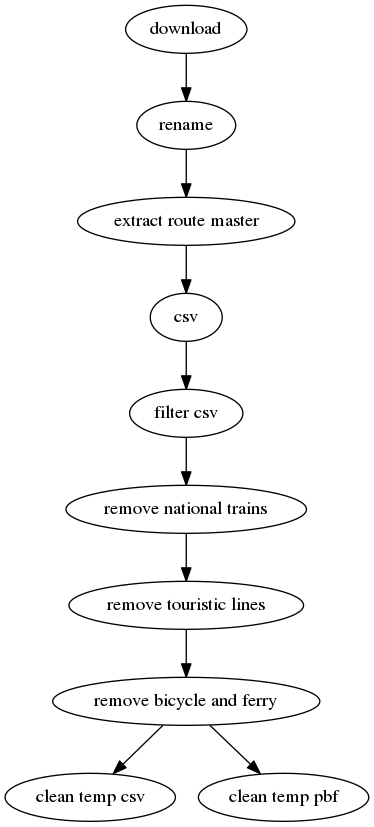
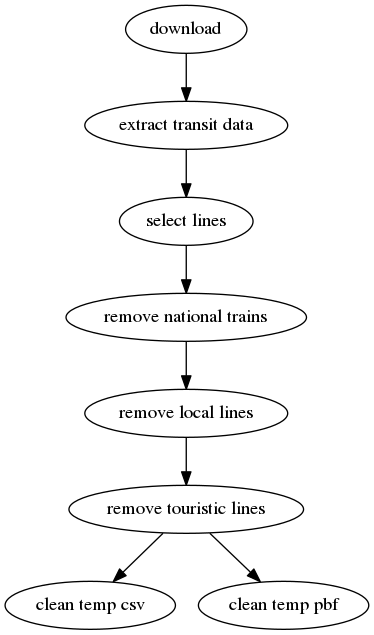
STIF - migration vers osm transit extractor

diff --git a/STIF-to-OSM/assets/index.js b/STIF-to-OSM/assets/index.js
@@ -36,11 +36,13 @@ $(document).ready(function() {
                 [1  , 'desc']
             ],
             columns: [ //@id,ref,name,network,operator,colour,type,route_master,ref:FR:STIF:ExternalCode_Line
+                //line_id,code,name,network,operator,colour,osm:type,mode,osm:ref:FR:STIF:ExternalCode_Line
                 {
                     title: "id",
                     data: function(row, type, set) {
-                        var link_url = "http://www.openstreetmap.org/relation/" + row[0];
-                        return "<a target='_blank' href='" + link_url + "'>" + row[0] + "</a>";
+                        var osm_id = row[0].split(':')[2]
+                        var link_url = "http://www.openstreetmap.org/relation/" + osm_id;
+                        return "<a target='_blank' href='" + link_url + "'>" + osm_id + "</a>";
                     }
                 }, {
                     title: "code",
@@ -73,19 +75,12 @@ $(document).ready(function() {
                             button_color = "";
                             navitia_url_suffix = "&line_code=" + row[1];
                         }
-                        return "<a class='button " + button_color + " small' target='_blank' href='./line.html?osm_relation=" + row[0] + navitia_url_suffix + "'> Voir </a>";
+                        return "<a class='button " + button_color + " small' target='_blank' href='./line.html?osm_relation=" + row[0].split(':')[2] + navitia_url_suffix + "'> Voir </a>";
                     }
                 }
             ]
         });
     }
-
-    //rendre le bouton utilisable
-    $('#data_table tbody').on('click', 'button', function() {
-        var data = table.row($(this).parents('tr')).data();
-        console.log(data)
-        alert(data[0] + "'s salary is: " + data[1]);
-    });
 });
 
 

diff --git a/analyse_ref_STIF/analyse_osm_relations_stif.py b/analyse_ref_STIF/analyse_osm_relations_stif.py
@@ -15,6 +15,11 @@ navitia_API_key = TOKEN
 navitia_base_url = "http://api.navitia.io/v1/coverage/fr-idf"
 
 
+def get_osm_lines(file_name):
+    with open(file_name, 'r') as f:
+        reader = csv.DictReader(f)
+        return list(reader)
+
 def get_opendata_info(code_type, code_value):
     navitia_info = {}
     appel_nav = requests.get(navitia_base_url + "/lines?filter=line.has_code({},{})".format(
@@ -44,22 +49,20 @@ def get_opendata_info(code_type, code_value):
     return "ok", navitia_info
 
 
-def create_opendata_csv():
+def create_opendata_csv(osm_lines):
     navitia_lines = []
     osm_lines_with_errors = []
-    with open('../STIF-to-OSM/data/lignes.csv', 'r') as f:
-        reader = csv.DictReader(f)
-        for row in reader:
-            if row['ref:FR:STIF:ExternalCode_Line']:
-                status, navitia_line = get_opendata_info(
-                    "source", row['ref:FR:STIF:ExternalCode_Line'])
-                if status != "ok":
-                    row["error"] = status
-                    row['osm_id'] = row['@id']
-                    osm_lines_with_errors.append(row)
-                else:
-                    navitia_line['osm_id'] = row['@id']
-                    navitia_lines.append(navitia_line)
+    for row in osm_lines :
+        if row['osm:ref:FR:STIF:ExternalCode_Line']:
+            status, navitia_line = get_opendata_info(
+                "source", row['osm:ref:FR:STIF:ExternalCode_Line'])
+            if status != "ok":
+                row["error"] = status
+                row['osm_id'] = row['line_id']
+                osm_lines_with_errors.append(row)
+            else:
+                navitia_line['osm_id'] = row['line_id']
+                navitia_lines.append(navitia_line)
 
     headers = ['osm_id', 'mode', 'network', 'color',
                'navitia_id', 'name', 'code', 'latitude', 'longitude']
@@ -78,21 +81,16 @@ def create_opendata_csv():
         for row in osm_lines:
             dw.writerow(row)
 
+    return navitia_lines
 
-def extract_common_values_by_networks():
-    with open('../STIF-to-OSM/data/lignes.csv', 'r') as f:
-        reader = csv.DictReader(f)
-        osm_lines = list(reader)
-    with open('analyse/route_master_opendata.csv', 'r') as f:
-        reader = csv.DictReader(f)
-        opendata_lines = list(reader)
 
+def extract_common_values_by_networks(osm_lines, opendata_lines):
     networks = {}
     operators = {}
     for a_navitia_line in opendata_lines:
         nav_network = networks.setdefault(a_navitia_line['network'], [])
         nav_operator = operators.setdefault(a_navitia_line['network'], [])
-        osm_match = [a_line for a_line in osm_lines if a_line['@id']
+        osm_match = [a_line for a_line in osm_lines if a_line['line_id']
                      == a_navitia_line['osm_id']]
         nav_network.append(osm_match[0]['network'])
         nav_operator.append(osm_match[0]['operator'])
@@ -110,81 +108,76 @@ def map_modes(opendata_mode):
     return mapping[opendata_mode]
 
 
-def get_errors():
-    stats = extract_common_values_by_networks()
+def get_errors(osm_lines, opendata_lines):
+    stats = extract_common_values_by_networks(osm_lines, opendata_lines)
     # get_most_common_value(stats, "network", "Noctilien")
     # get_most_common_value(stats, "operator", "Noctilien")
 
-    with open('analyse/route_master_opendata.csv', 'r') as f:
-        reader = csv.DictReader(f)
-        opendata_lines = list(reader)
+    errors = []
+    opendata_deduplicated = []
+    for an_osm_line in osm_lines:
+        an_osm_line['osm_id'] = an_osm_line['line_id'].split(':')[-1]
+        if not an_osm_line['osm:ref:FR:STIF:ExternalCode_Line']:
+            continue
+        if an_osm_line['osm:ref:FR:STIF:ExternalCode_Line'] not in opendata_deduplicated:
+            opendata_deduplicated.append(
+                an_osm_line['osm:ref:FR:STIF:ExternalCode_Line'])
+        else:
+            error = {"id": an_osm_line['osm_id']}
+            error['label'] = "Il y a plusieurs lignes dans OSM qui ont ce même ref:FR:STIF:ExternalCode_Line ({})".format(
+                an_osm_line['osm:ref:FR:STIF:ExternalCode_Line'])
+            error['lat'], error['lon'] = opendata_line['latitude'], opendata_line['longitude']
+            errors.append(error)
+        opendata_matching_lines = [
+            a_line for a_line in opendata_lines if an_osm_line['line_id'] == a_line['osm_id']]
+        if not opendata_matching_lines:
+            continue
+        opendata_line = opendata_matching_lines[0]
+        if not an_osm_line['network']:
+            error = {"id": an_osm_line['osm_id']}
+            fix = get_most_common_value(
+                stats, "network", opendata_line['network'])
+            error['label'] = "la relation n'a pas de tag network."
+            if fix != "":
+                error['fix'] = [{"key": "network", "value": fix}]
+                error['label'] = "la relation n'a pas de tag network. Valeur probable : " + fix
+            error['lat'], error['lon'] = opendata_line['latitude'], opendata_line['longitude']
+            errors.append(error)
+        if not an_osm_line['operator']:
+            error = {"id": an_osm_line['osm_id']}
+            fix = get_most_common_value(
+                stats, "operator", opendata_line['network'])
+            error['label'] = "la relation n'a pas de tag operator."
+            if fix != "":
+                error['fix'] = [{"key": "operator", "value": fix}]
+                error['label'] = "la relation n'a pas de tag operator. Valeur probable : " + fix
+            error['lat'], error['lon'] = opendata_line['latitude'], opendata_line['longitude']
+            errors.append(error)
+        if not an_osm_line['colour'] and opendata_line['color'] not in ["000000", "0", ""]:
+            error = {"id": an_osm_line['osm_id']}
+            error['label'] = "la relation n'a pas de tag colour."
+            fix = '#' + opendata_line['color']
+            if opendata_line['color'] not in ["", "0", "000000"]:
+                error['fix'] = [{"key": "colour", "value": fix}]
+                error['label'] = "la relation n'a pas de tag colour. Valeur probable : " + fix
+            error['lat'], error['lon'] = opendata_line['latitude'], opendata_line['longitude']
+            # errors.append(error)
+        if not an_osm_line['code']:
+            error = {"id": an_osm_line['osm_id']}
+            fix = opendata_line['code']
+            error['label'] = "la relation n'a pas de tag ref. Valeur probable : " + fix
+            error['lat'], error['lon'] = opendata_line['latitude'], opendata_line['longitude']
+            error['fix'] = [{"key": "ref", "value": fix}]
+            errors.append(error)
+        if not an_osm_line['mode']:
+            error = {"id": an_osm_line['osm_id']}
+            fix = map_modes(opendata_line['mode'])
+            error['label'] = "la relation n'a pas de tag route_master. Valeur probable : " + fix
+            error['lat'], error['lon'] = opendata_line['latitude'], opendata_line['longitude']
+            error['fix'] = [{"key": "route_master", "value": fix}]
+            errors.append(error)
 
-        errors = []
-        opendata_deduplicated = []
-        with open('../STIF-to-OSM/data/lignes.csv', 'r') as f:
-            reader = csv.DictReader(f)
-            for an_osm_line in reader:
-                if not an_osm_line['ref:FR:STIF:ExternalCode_Line']:
-                    continue
-                if an_osm_line['ref:FR:STIF:ExternalCode_Line'] not in opendata_deduplicated:
-                    opendata_deduplicated.append(
-                        an_osm_line['ref:FR:STIF:ExternalCode_Line'])
-                else:
-                    error = {"id": an_osm_line['@id']}
-                    error['label'] = "Il y a plusieurs lignes dans OSM qui ont ce même ref:FR:STIF:ExternalCode_Line ({})".format(
-                        an_osm_line['ref:FR:STIF:ExternalCode_Line'])
-                    error['lat'], error['lon'] = opendata_line['latitude'], opendata_line['longitude']
-                    errors.append(error)
-                opendata_matching_lines = [
-                    a_line for a_line in opendata_lines if an_osm_line['@id'] == a_line['osm_id']]
-                if not opendata_matching_lines:
-                    continue
-                opendata_line = opendata_matching_lines[0]
-                if not an_osm_line['network']:
-                    error = {"id": an_osm_line['@id']}
-                    fix = get_most_common_value(
-                        stats, "network", opendata_line['network'])
-                    error['label'] = "la relation n'a pas de tag network."
-                    if fix != "":
-                        error['fix'] = [{"key": "network", "value": fix}]
-                        error['label'] = "la relation n'a pas de tag network. Valeur probable : " + fix
-                    error['lat'], error['lon'] = opendata_line['latitude'], opendata_line['longitude']
-                    errors.append(error)
-                if not an_osm_line['operator']:
-                    error = {"id": an_osm_line['@id']}
-                    fix = get_most_common_value(
-                        stats, "operator", opendata_line['network'])
-                    error['label'] = "la relation n'a pas de tag operator."
-                    if fix != "":
-                        error['fix'] = [{"key": "operator", "value": fix}]
-                        error['label'] = "la relation n'a pas de tag operator. Valeur probable : " + fix
-                    error['lat'], error['lon'] = opendata_line['latitude'], opendata_line['longitude']
-                    errors.append(error)
-                if not an_osm_line['colour'] and opendata_line['color'] not in ["000000", "0", ""]:
-                    error = {"id": an_osm_line['@id']}
-                    error['label'] = "la relation n'a pas de tag colour."
-                    fix = '#' + opendata_line['color']
-                    if opendata_line['color'] not in ["", "0", "000000"]:
-                        error['fix'] = [{"key": "colour", "value": fix}]
-                        error['label'] = "la relation n'a pas de tag colour. Valeur probable : " + fix
-                    error['lat'], error['lon'] = opendata_line['latitude'], opendata_line['longitude']
-                    # errors.append(error)
-                if not an_osm_line['ref']:
-                    error = {"id": an_osm_line['@id']}
-                    fix = opendata_line['code']
-                    error['label'] = "la relation n'a pas de tag ref. Valeur probable : " + fix
-                    error['lat'], error['lon'] = opendata_line['latitude'], opendata_line['longitude']
-                    error['fix'] = [{"key": "ref", "value": fix}]
-                    errors.append(error)
-                if not an_osm_line['route_master']:
-                    error = {"id": an_osm_line['@id']}
-                    fix = map_modes(opendata_line['mode'])
-                    error['label'] = "la relation n'a pas de tag route_master. Valeur probable : " + fix
-                    error['lat'], error['lon'] = opendata_line['latitude'], opendata_line['longitude']
-                    error['fix'] = [{"key": "route_master", "value": fix}]
-                    errors.append(error)
-
-        return errors
+    return errors
 
 
 def create_osmose_xml(errors):
@@ -226,11 +219,15 @@ def create_osmose_xml(errors):
     return xmltodict.unparse(doc, pretty=True)
 
 
+
+
 if __name__ == '__main__':
 
-    create_opendata_csv()
+    osm_lines = get_osm_lines('../STIF-to-OSM/data/lignes.csv')
 
-    errors = get_errors()
+    opendata_lines = create_opendata_csv(osm_lines)
+
+    errors = get_errors(osm_lines, opendata_lines)
 
     xml = create_osmose_xml(errors)
     print("Il y a {} erreurs".format(len(errors)))
